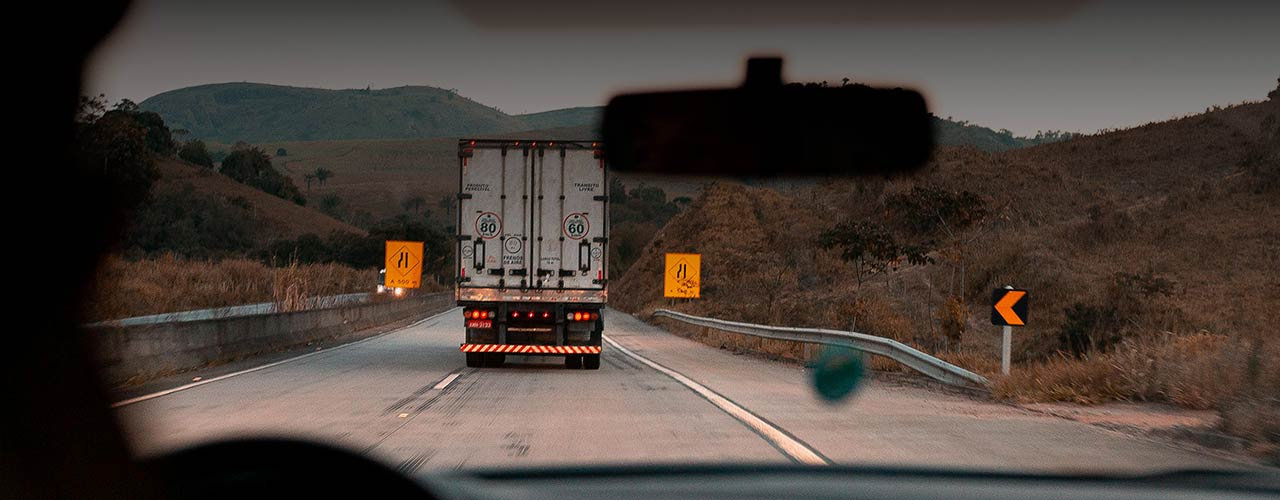
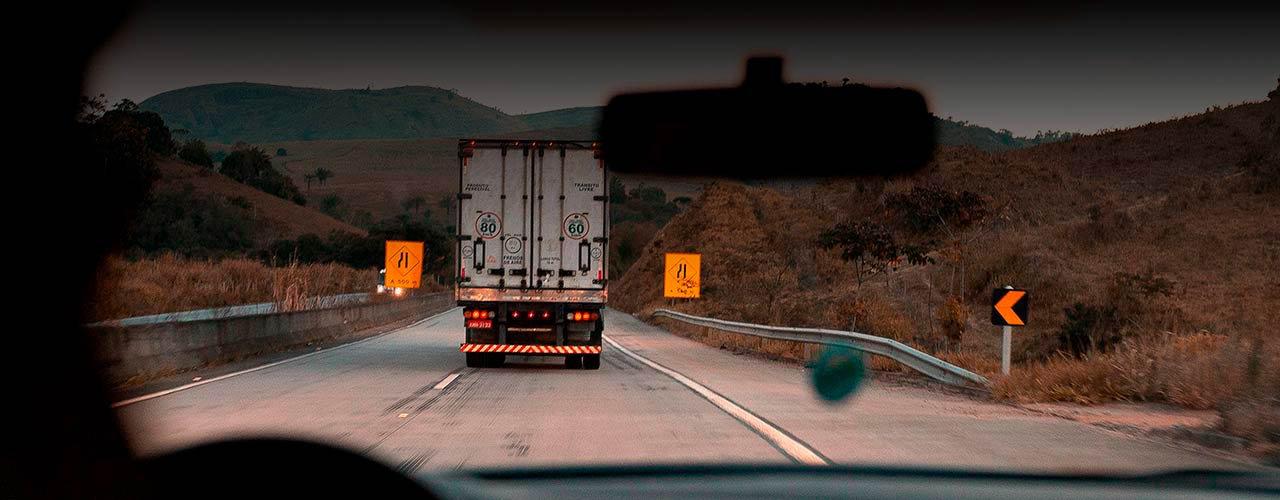
IMAGES

diff --git a/src/pages/Home/Home.module.css b/src/pages/Home/Home.module.css
@@ -107,21 +107,36 @@
   }
   
   @media (min-width: 1024px) {
+
+    .intro {
+      position: relative;
+      z-index: 1;
+    }
+
     .intro .image {
       max-height: 1000px;
       position: relative;
       z-index: 1;
       width: 50%;
     }
+
+    .intro .image picture {
+      width: auto;
+      height: 100%;
+    }
+
+    .intro .image picture img {
+      width: auto;
+      height: 100%;
+      object-fit: cover;
+    }
+    
   
     .intro > div {
       width: 50vw;
     }
   
-    .intro {
-      position: relative;
-      z-index: 1;
-    }
+    
   
     .services {
       position: relative;

diff --git a/src/pages/Contact/Contact.module.css b/src/pages/Contact/Contact.module.css
@@ -102,6 +102,17 @@
 
 @media (min-width: 1024px) {
 
+  .intro .image picture {
+    width: auto;
+    height: 100%;
+  }
+
+  .intro .image picture img {
+    width: auto;
+    height: 100%;
+    object-fit: cover;
+  }
+
   .intro .text {
 
     margin-top: -80px; /* Superposición */
